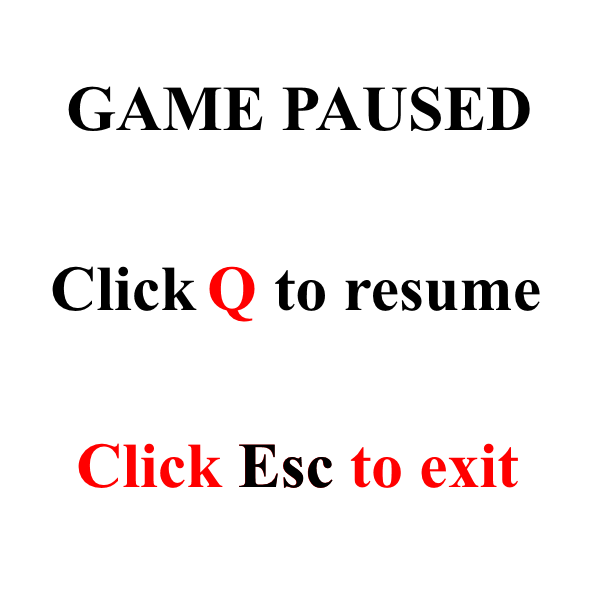
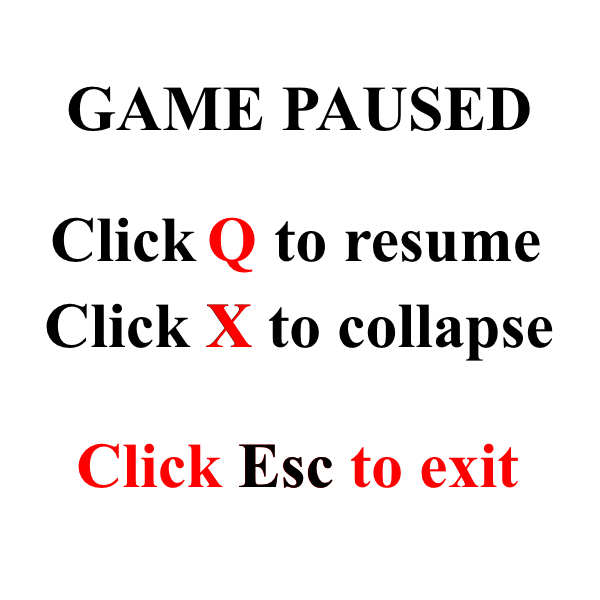
Add client collapse function

Changed region(s): [[0.06, 0.36, 0.93, 0.6]]

diff --git a/src/main.cpp b/src/main.cpp
@@ -199,11 +199,14 @@ public:
                 if (!isPaused) {
                     isPaused = true;
                 } else {
-                    isExit = true;
+                    toExit = true;
                 }
             }
             if ((event.KeyInput.Key == KEY_KEY_Q && isPaused)) {
                 isPaused = false;
+            }
+            if ((event.KeyInput.Key == KEY_KEY_X && isPaused)) {
+                toCollapse = true;
             }
         }
 
@@ -237,7 +240,8 @@ public:
         ctrl = false;
         walking = false;
         isPaused = false;
-        isExit = false;
+        toExit = false;
+        toCollapse = false;
     }
 
     bool leftclicked;
@@ -246,7 +250,8 @@ public:
     bool ctrl;
     bool walking;
     bool isPaused;
-    bool isExit;
+    bool toExit;
+    bool toCollapse;
 private:
     // We use this array to store the current state of each key
     bool keyIsDown[KEY_KEY_CODES_COUNT];
@@ -616,8 +621,13 @@ int main() {
         while (device->run()) {
 
             // client exit check
-            if (receiver.isExit) {
+            if (receiver.toExit) {
                 client.exit();
+                // wait 10 seconds
+//                sleep_ms(5000);
+                break;
+            } else if (receiver.toCollapsed) {
+                client.collapse();
                 // wait 10 seconds
 //                sleep_ms(5000);
                 break;

diff --git a/src/client.cpp b/src/client.cpp
@@ -91,31 +91,17 @@ void Client::connect(Address address) {
 void Client::exit() {
     JMutexAutoLock envlock(m_env_mutex);
 
-    Player *myplayer = m_env.getLocalPlayer();
-    if (myplayer == NULL)
-        return;
-
-    u16 our_peer_id;
-    {
-        JMutexAutoLock lock(m_con_mutex);
-        our_peer_id = m_con.GetPeerID();
-    }
-
-    // Set peer id if not set already
-    if (myplayer->peer_id == PEER_ID_NEW)
-        myplayer->peer_id = our_peer_id;
-    // Check that an existing peer_id is the same as the connection's
-    assert(myplayer->peer_id == our_peer_id);
-
-    // fetch position
-    v3f pf = myplayer->getPosition();
-    v3s32 position(pf.X * 100, pf.Y * 100, pf.Z * 100);
-    // fetch state
-    u16 skin = myplayer->skin;
-    u16 gear = myplayer->gear;
-
     SharedBuffer<u8> data(2);
     writeU16(&data[0], TOSERVER_EXIT);
+    // Send as unreliable
+    Send(0, data, false);
+}
+
+void Client::collapse() {
+    JMutexAutoLock envlock(m_env_mutex);
+
+    SharedBuffer<u8> data(2);
+    writeU16(&data[0], TOSERVER_COLLAPSE);
     // Send as unreliable
     Send(0, data, false);
 }

diff --git a/src/mapsector.h b/src/mapsector.h
@@ -74,7 +74,7 @@ public:
         assert(m_mutex.IsInitialized());
     }
 
-    ~MapSector() {
+    virtual ~MapSector() {
         //TODO: clear m_blocks
         core::map<s16, MapBlock*>::Iterator i = m_blocks.getIterator();
         for (; i.atEnd() == false; i++) {

diff --git a/src/client.h b/src/client.h
@@ -94,6 +94,7 @@ public:
     ~Client();
     void connect(Address address);
     void exit();
+    void collapse();
 
     /*
      Stuff that references the environment is valid only as

diff --git a/src/clientserver.h b/src/clientserver.h
@@ -22,7 +22,8 @@ enum ToServerCommand {
     TOSERVER_RMPLAYER,
     TOSERVER_PLAYERPORT,
     TOSERVER_EXIT,
-    TOSERVER_INIT
+    TOSERVER_INIT,
+    TOSERVER_COLLAPSE
 };
 
 #endif
